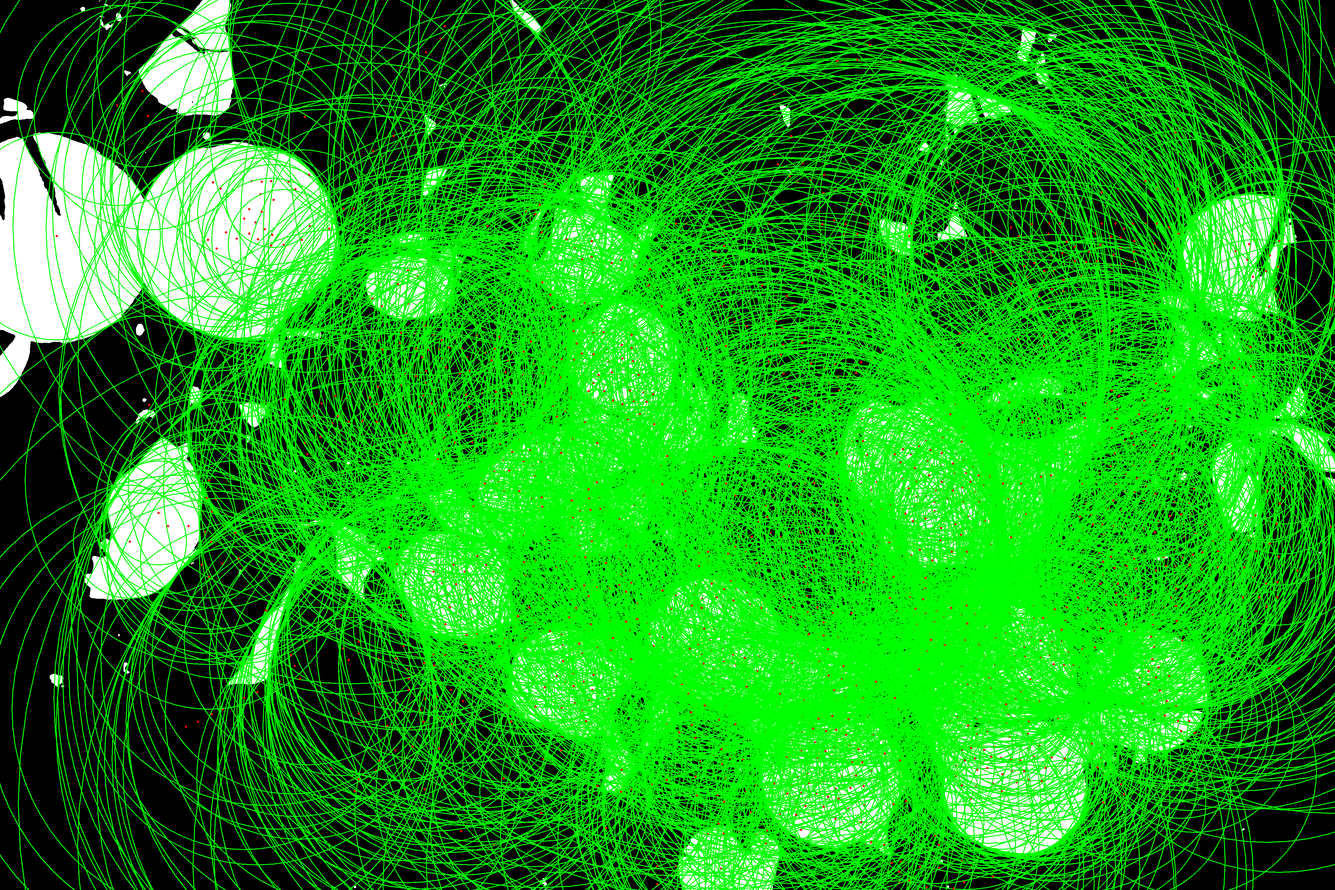
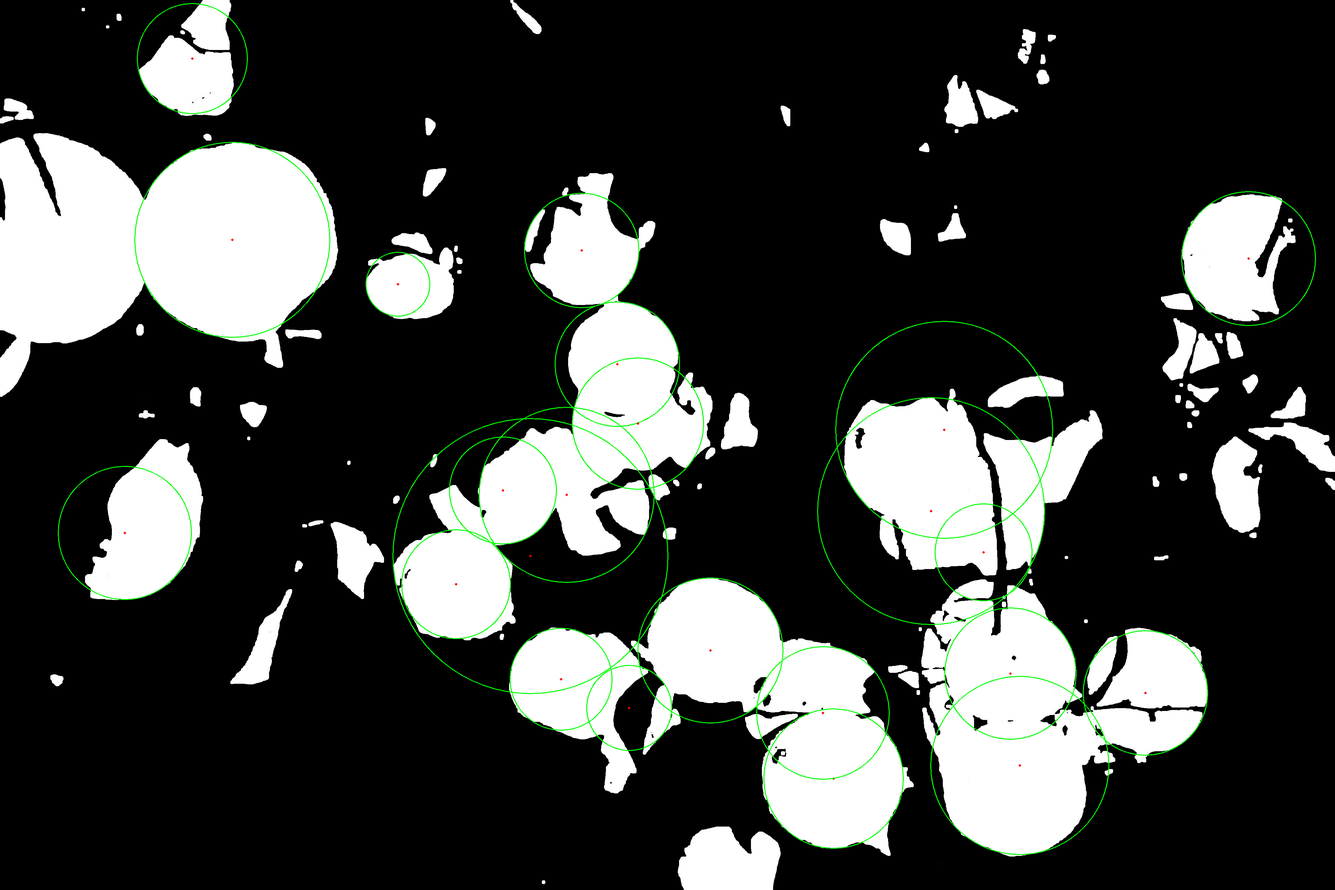
this is getting better

diff --git a/circles.py b/circles.py
@@ -1,4 +1,12 @@
-#!/usr/bin/python3
+#!/usr/local/bin/python
+
+
+##
+#
+# Citrus 4 should have about 22 circles
+#
+#
+
 
 import os
 import cv2
@@ -9,24 +17,68 @@ import numpy as np
 def circleCount(fname):
 
 	img = cv2.imread("masks/" + fname,0)
+	kernel = np.ones((10,10),np.uint8)
+
+	img = cv2.morphologyEx(img, cv2.MORPH_OPEN, kernel)
+	cv2.imwrite("open.png", img)
+
+
 	img = cv2.medianBlur(img,5)
 	cimg = cv2.cvtColor(img,cv2.COLOR_GRAY2BGR)
 
-	circles = cv2.HoughCircles(img,cv2.HOUGH_GRADIENT,2,30,
-	                            param1=100,param2=100, minRadius=100,maxRadius=3000)
-	print(len(circles))
+	circles = cv2.HoughCircles(img,cv2.HOUGH_GRADIENT,2,200,
+	                            param1=100,param2=100, minRadius=0,maxRadius=3000)
 
 	circles = np.uint16(np.around(circles))
+
+
+	count = 0
 	for i in circles[0,:]:
-	    # draw the outer circle
-	    cv2.circle(cimg,(i[0],i[1]),i[2],(0,255,0),2)
-	    # draw the center of the circle
-	    cv2.circle(cimg,(i[0],i[1]),2,(0,0,255),3)
+
+ 		if i[2] < 500:
+
+			mask = np.zeros(shape=(img.shape[0], img.shape[1]))
+			cv2.circle(mask,(i[0],i[1]),i[2],255, -1)
+			vals = countWhite(mask, img, (i[0],i[1]),i[2])
+
+			if vals[1] >  vals[0] / 2:
+				count += 1
+				# draw the outer circle
+				cv2.circle(cimg,(i[0],i[1]),i[2],(0,255,0),2)
+			    # draw the center of the circle
+
+				cv2.circle(cimg,(i[0],i[1]),2,(0,0,255),3)
 
 
+
+	print(count)
 	cv2.imwrite("final.png", cimg)
 
 
+def countWhite(mask, img, center, radius):
+
+	numTotal = 3.14 * radius**2
+	numWhite = 0
+
+
+	lowerbound_out = max(center[1] - radius, 0)
+	upperbound_out = min(center[1] + radius, img.shape[0])
+
+	lowerbound_in = max(center[0] - radius, 0)
+	upperbound_in = min(center[0] + radius, img.shape[1])
+
+
+	for k in range(lowerbound_out, upperbound_out):
+		for i in range(lowerbound_in, upperbound_in):
+
+			if (mask[k,i] == 255 and img[k,i] == 255):
+				numWhite += 1
+
+
+
+	print(numTotal, " ", numWhite)
+
+	return (numTotal, numWhite)
 
 if __name__ == '__main__':
 
